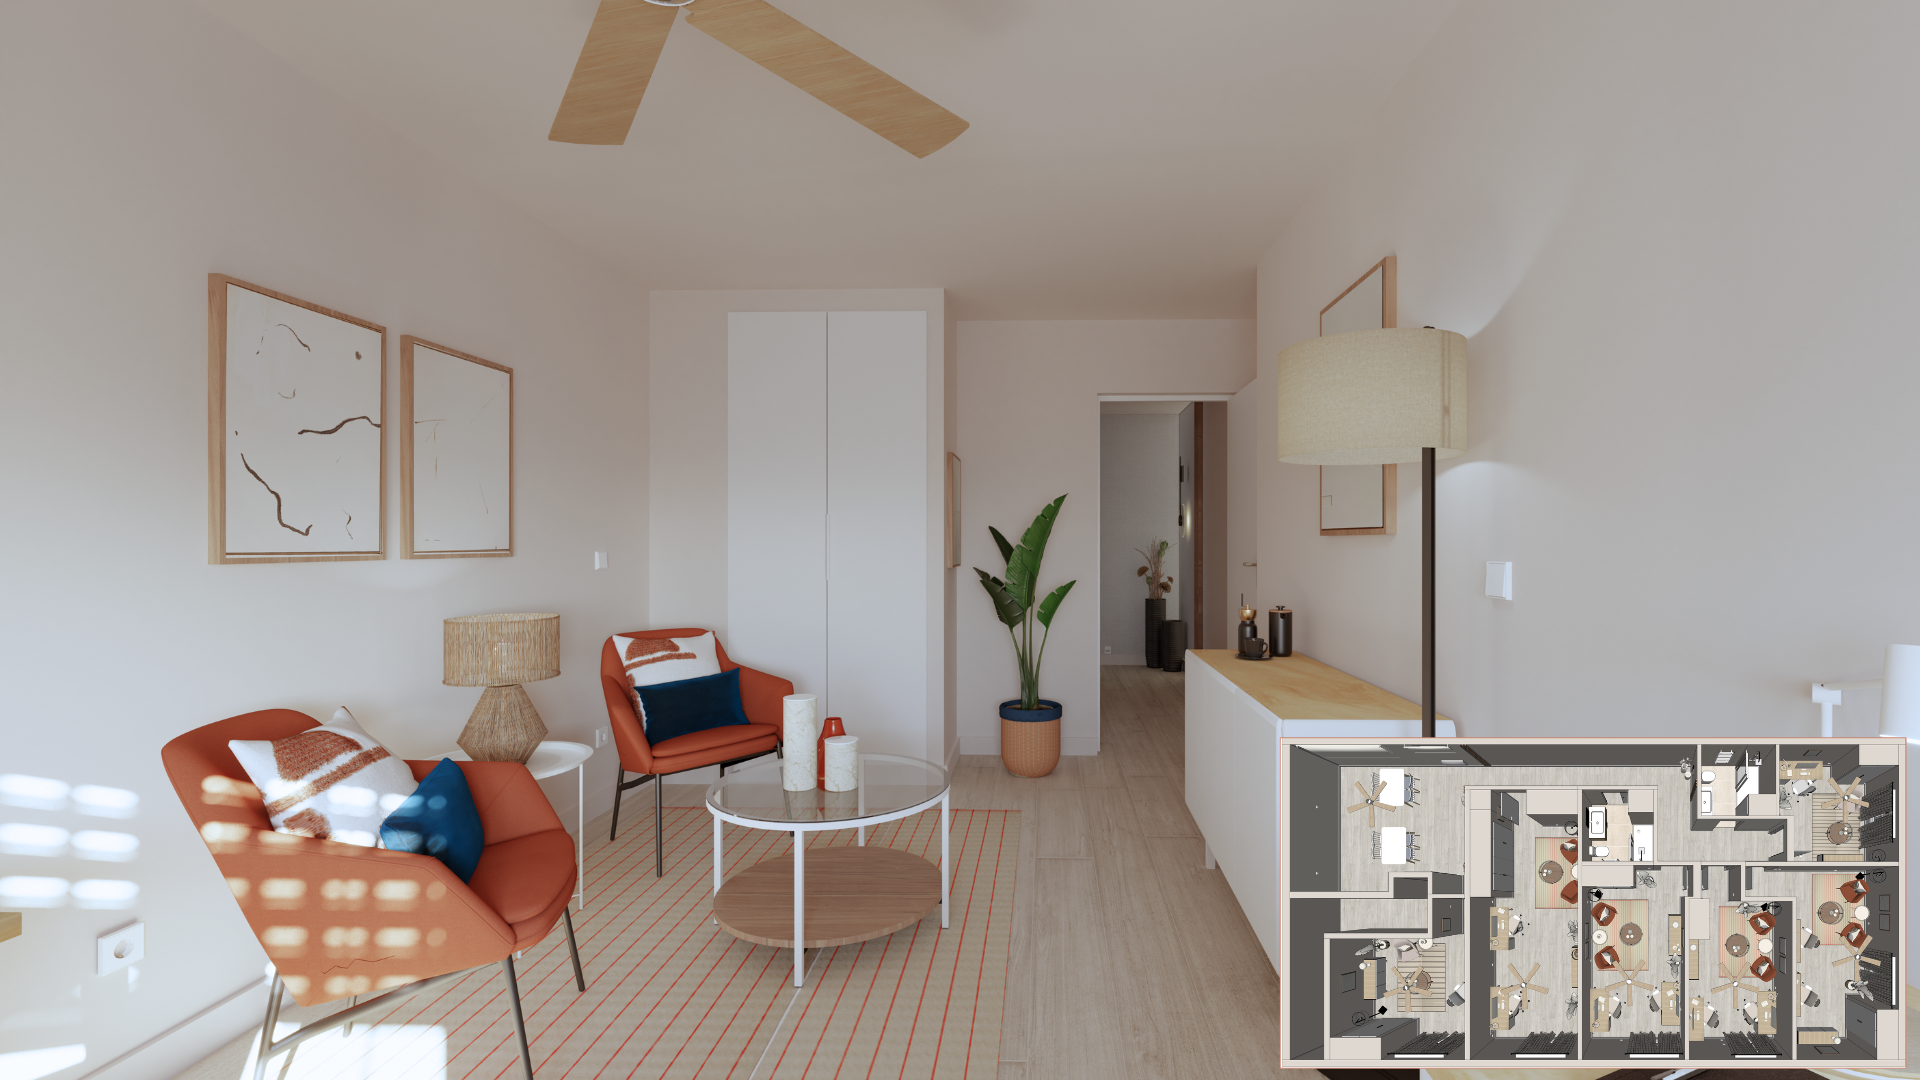
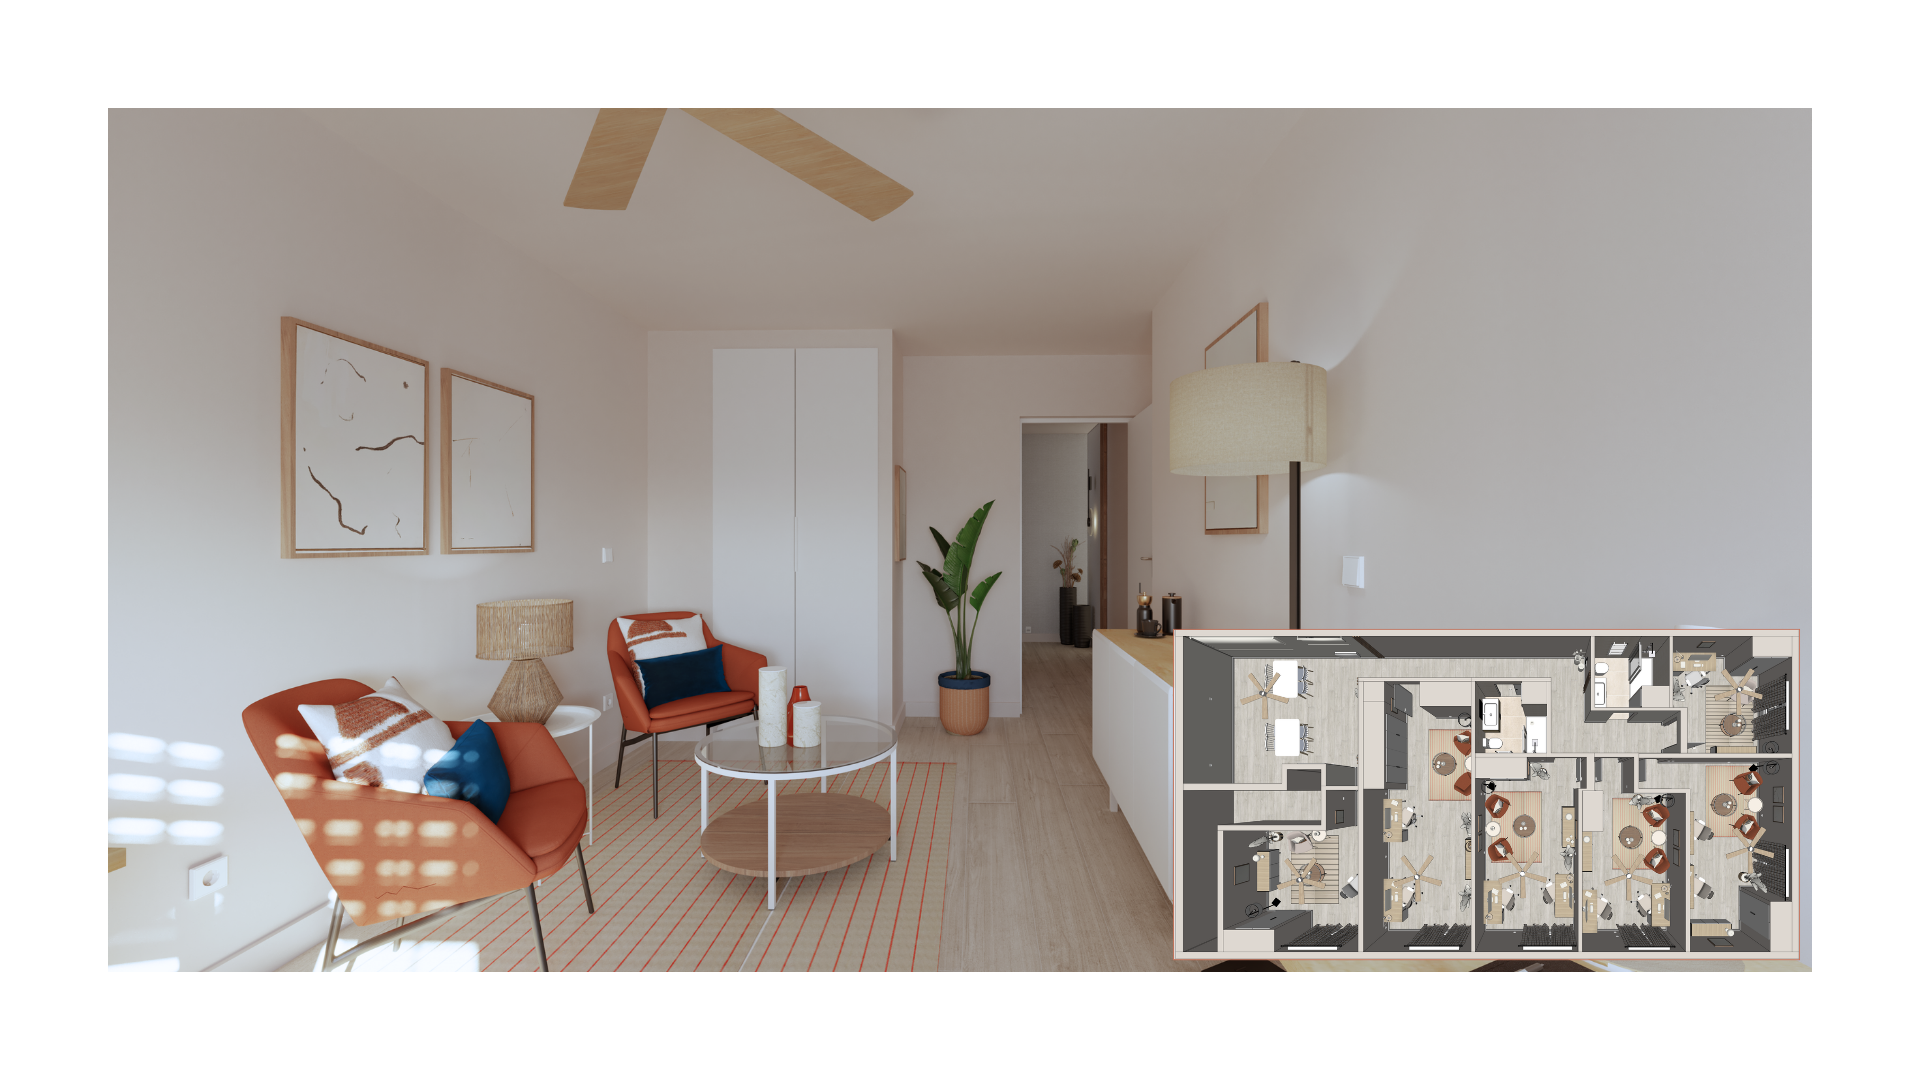
a

diff --git a/assets/css/proyectos/local_madrid_pro.css b/assets/css/proyectos/local_madrid_pro.css
@@ -155,8 +155,8 @@ html, body{ background: var(--dj-page-bg); }
 /* Posición por slide (100% CSS, sin tocar HTML/JS) */
 .page-project .dj-hero__slide:nth-child(1) img{ object-position: 50% 80%; }
 .page-project .dj-hero__slide:nth-child(2) img{ object-position: 50% 40%; }
-.page-project .dj-hero__slide:nth-child(3) img{ object-position: 50% 40%; }
-.page-project .dj-hero__slide:nth-child(4) img{ object-position: 50% 40%; }
+.page-project .dj-hero__slide:nth-child(3) img{ object-position: 100% 40%; }
+.page-project .dj-hero__slide:nth-child(4) img{ object-position: 100% 40%; }
 .page-project .dj-hero__slide:nth-child(5) img{ object-position: 50% 20%; }
 .page-project .dj-hero__slide:nth-child(6) img{ object-position: 50% 40%; }
 
